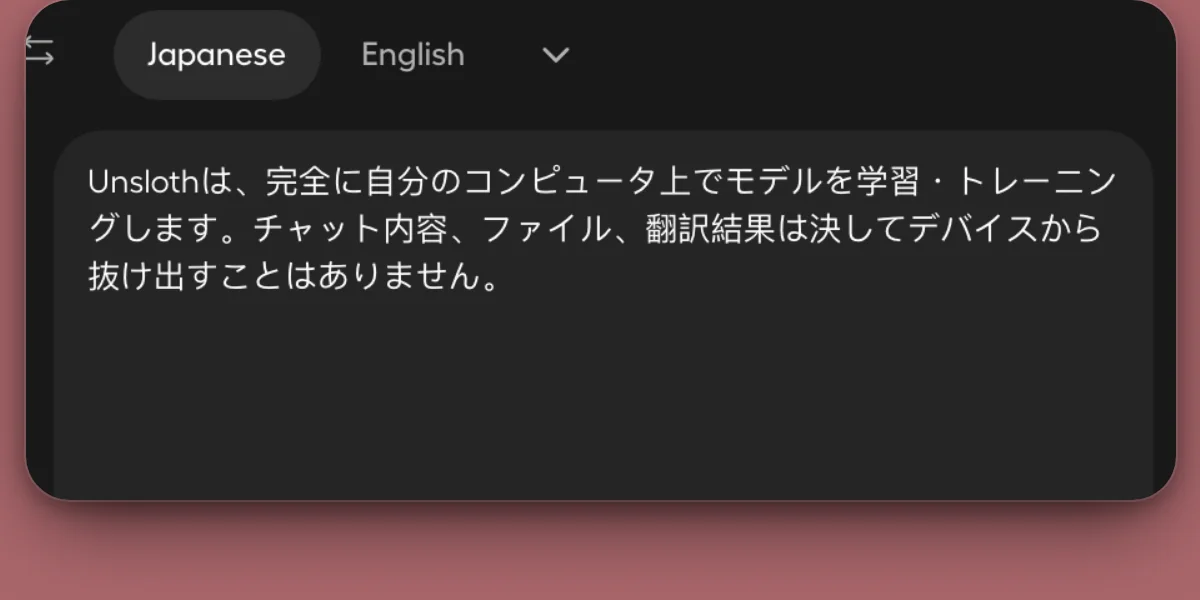
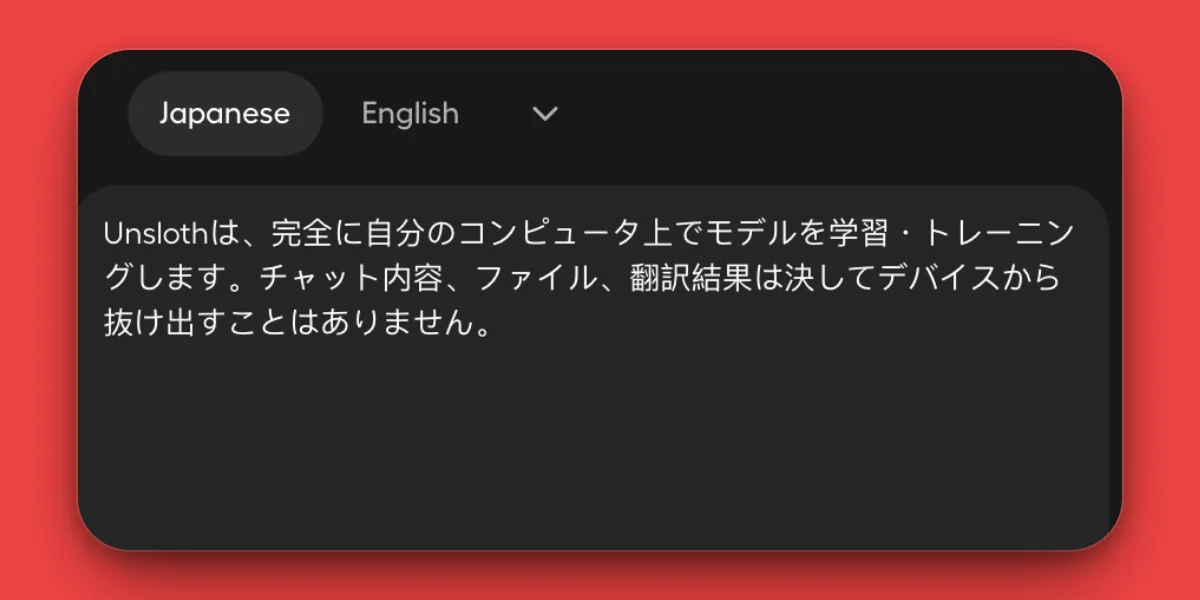
Release history: vivid artwork, centered rounder screenshots, Try it and guide buttons

diff --git a/studio/frontend/src/components/update/whats-new-dialog.tsx b/studio/frontend/src/components/update/whats-new-dialog.tsx
@@ -8,12 +8,17 @@ import {
   DialogDescription,
   DialogTitle,
 } from "@/components/ui/dialog";
+import {
+  type SettingsTab,
+  useSettingsDialogStore,
+} from "@/features/settings/stores/settings-dialog-store";
 import { useScrollFades } from "@/hooks/use-scroll-fades";
 import { useLocale, useT } from "@/i18n";
 import { openExternalLink } from "@/lib/open-link";
 import { cn } from "@/lib/utils";
 import { ArrowUpRight01Icon } from "@hugeicons/core-free-icons";
 import { HugeiconsIcon } from "@hugeicons/react";
+import { useRouter } from "@tanstack/react-router";
 import { type ReactNode, useState } from "react";
 import {
   type Release,
@@ -317,6 +322,74 @@ function docsLink(item: object): string | undefined {
     : undefined;
 }
 
+/** Where "Try it" goes: a route, or a Settings tab as `settings:<tab>`. */
+function openTarget(item: object): string | undefined {
+  return "open" in item && typeof item.open === "string"
+    ? item.open
+    : undefined;
+}
+
+const SETTINGS_PREFIX = "settings:";
+
+function CardActions({ feature }: { feature: object }) {
+  const t = useT();
+  const router = useRouter();
+  const close = useWhatsNew((state) => state.close);
+  const guide = docsLink(feature);
+  const target = openTarget(feature);
+  if (!(guide || target)) {
+    return null;
+  }
+  const tryIt = () => {
+    if (!target) {
+      return;
+    }
+    close();
+    if (target.startsWith(SETTINGS_PREFIX)) {
+      useSettingsDialogStore
+        .getState()
+        .openDialog(target.slice(SETTINGS_PREFIX.length) as SettingsTab);
+    } else {
+      router.history.push(target);
+    }
+  };
+  return (
+    <div className="mt-3 flex flex-wrap gap-2">
+      {target && (
+        <Button
+          size="sm"
+          variant="secondary"
+          className="h-8 rounded-md px-3 text-ui-13"
+          onClick={tryIt}
+        >
+          {target.startsWith(SETTINGS_PREFIX)
+            ? t("updateNotes.openSettings")
+            : t("updateNotes.tryIt")}
+        </Button>
+      )}
+      {guide && (
+        <Button
+          size="sm"
+          variant="ghost"
+          className={cn(
+            "h-8 gap-1 rounded-md px-3 text-ui-13 text-muted-foreground hover:text-foreground",
+            !target && "-ml-3",
+          )}
+          onClick={() => openExternalLink(guide)}
+        >
+          {t("updateNotes.readGuide")}
+          <HugeiconsIcon
+            icon={ArrowUpRight01Icon}
+            className="size-3.5"
+            strokeWidth={2}
+            aria-hidden="true"
+          />
+        </Button>
+      )}
+    </div>
+  );
+}
+
 function GuideLink({ href }: { href: string | undefined }) {
   const t = useT();
   if (!href) {
@@ -374,13 +447,7 @@ function ReleaseBody({ entry }: { entry: Release }) {
               <p className="mt-1 text-ui-13 leading-relaxed text-muted-foreground">
                 {feature.summary}
               </p>
-              {docsLink(feature) && (
-                <p className="mt-2 text-ui-13">
-                  <ExternalLink href={docsLink(feature) ?? ""}>
-                    {t("updateNotes.readGuide")}
-                  </ExternalLink>
-                </p>
-              )}
+              <CardActions feature={feature} />
             </figcaption>
           </figure>
         ))}

diff --git a/studio/frontend/src/i18n/locales/en.ts b/studio/frontend/src/i18n/locales/en.ts
@@ -5816,6 +5816,8 @@ export const en = {
     copied: "Copied",
     openRelease: "Open release",
     readGuide: "Read the guide",
+    tryIt: "Try it",
+    openSettings: "Open settings",
     guide: "Guide",
     sinceTitle: "What’s new since {version}",
     sinceNav: "Since {version}",
